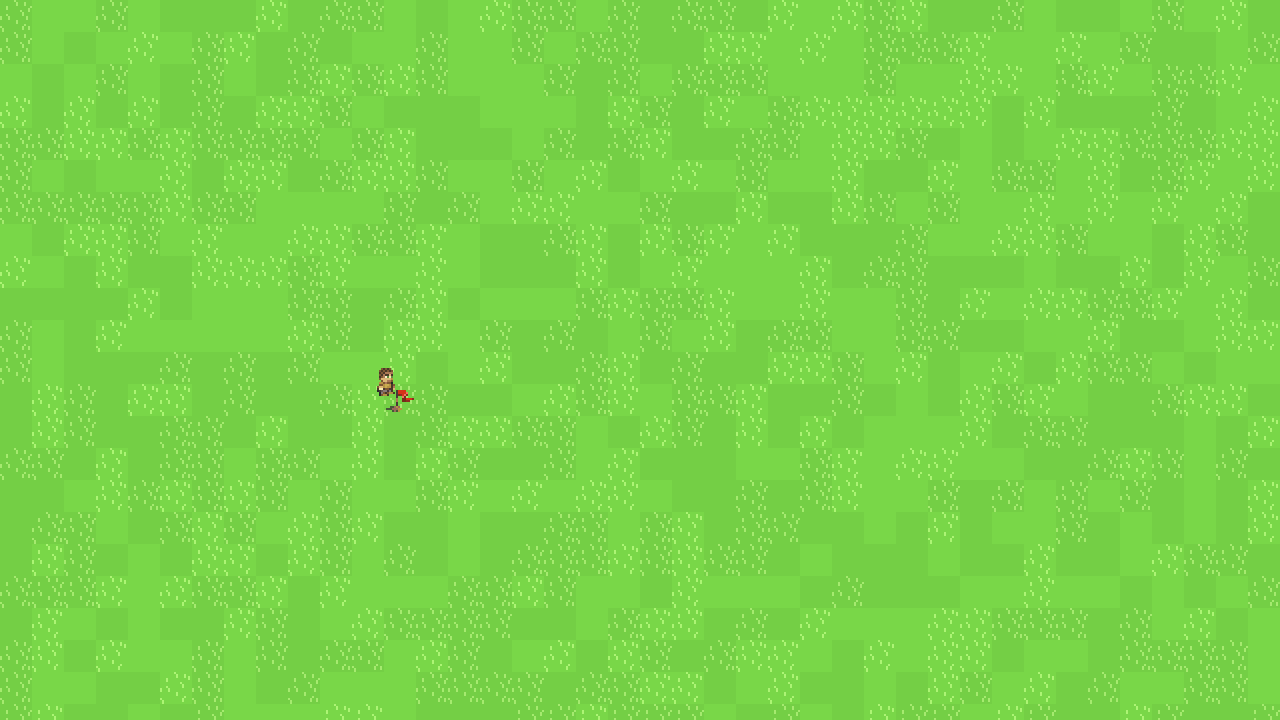
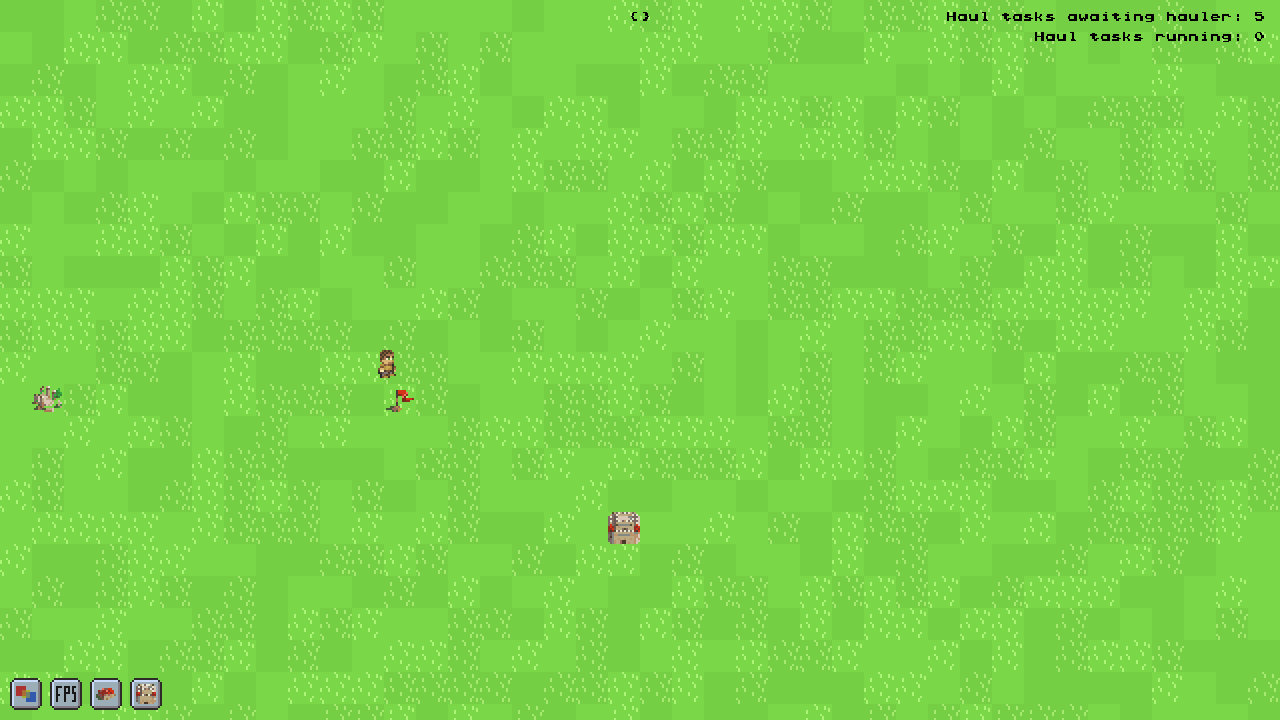
Add: Basic Scene structure Add: MainMenu scene Add: Moved current startup and update to TestMap scene

diff --git a/src/game/startup.rs b/src/game/startup.rs
@@ -13,8 +13,7 @@ use crate::{
         buildings::{house::spawn_finished_house, warehouse::spawn_finished_warehouse},
         constants::*,
         input::{toggle_debug_text, toggle_draw_collisions},
-        tasks::OpenTasks,
-        tilemap::generate_tilemap,
+        scenes::{ActiveScene, Scene},
         villagers::hauler::spawn_hauler,
     },
 };
@@ -22,19 +21,23 @@ use crate::{
 use super::{
     buildings::house::spawn_house_placement,
     constants::TILE_SIZE,
+    scenes::test_map_scene::setup_test_map,
     ui::datatypes::{ActiveTaskCountLabel, GlobalStorageLabel, IdleTaskCountLabel, SelectedHauler},
 };
 
-pub fn game_setup(world: &mut World, _raylib_handle: &mut RaylibHandle, _thread: &RaylibThread) -> Result<(), String> {
-    generate_tilemap(world, 1024, 1024);
-
-    world.spawn((OpenTasks::default(),));
-
-    spawn_buildings(world);
-    spawn_villagers(world);
-    spawn_ui(world)?;
-
-    Ok(())
+pub fn game_setup(
+    world: &mut World,
+    raylib_handle: &mut RaylibHandle,
+    thread: &RaylibThread,
+) -> Result<(), String> {
+    let m_global_storage = world.query_mut::<&ActiveScene>().into_iter().nth(0);
+    Ok(if let Some((_, active_scene)) = m_global_storage {
+        return match active_scene.scene {
+            Scene::TestMap => setup_test_map(world, raylib_handle, thread),
+            Scene::MainMenu => Ok(()),
+            Scene::TestMap2 => Ok(()),
+        };
+    })
 }
 
 pub fn spawn_villagers(world: &mut World) {
@@ -116,7 +119,7 @@ pub fn spawn_ui(world: &mut World) -> Result<(), String> {
         Vector2 { x: 0.0, y: 1.0 },
         TILE_SIZE,
         Some(|world| -> Result<(), String> {
-            let storage: HashMap<GameResource, i32> = HashMap::from([(GameResource::Wood, 40)]); 
+            let storage: HashMap<GameResource, i32> = HashMap::from([(GameResource::Wood, 40)]);
             spawn_finished_warehouse(world, Vector2 { x: 304.0, y: 48.0 }, storage);
             Ok(())
         }),
@@ -135,7 +138,9 @@ pub fn spawn_ui(world: &mut World) -> Result<(), String> {
         1.0,
         Color::BLACK,
     );
-    world.insert(label, (IdleTaskCountLabel,)).map_err(|_| "No such entity")?;
+    world
+        .insert(label, (IdleTaskCountLabel,))
+        .map_err(|_| "No such entity")?;
     let label = spawn_label(
         world,
         Vector2 {
@@ -148,7 +153,9 @@ pub fn spawn_ui(world: &mut World) -> Result<(), String> {
         1.0,
         Color::BLACK,
     );
-    world.insert(label, (ActiveTaskCountLabel,)).map_err(|_| "No such entity")?;
+    world
+        .insert(label, (ActiveTaskCountLabel,))
+        .map_err(|_| "No such entity")?;
     let label = spawn_label(
         world,
         Vector2 {
@@ -161,6 +168,8 @@ pub fn spawn_ui(world: &mut World) -> Result<(), String> {
         1.0,
         Color::BLACK,
     );
-    world.insert(label, (GlobalStorageLabel,)).map_err(|_| "No such entity")?;
+    world
+        .insert(label, (GlobalStorageLabel,))
+        .map_err(|_| "No such entity")?;
     Ok(())
 }

diff --git a/src/main.rs b/src/main.rs
@@ -1,28 +1,23 @@
-pub mod game;
 pub mod engine;
+pub mod game;
 
 extern crate pretty_env_logger;
 #[macro_use]
 extern crate log;
 
-use engine::{
-    ui::datatypes::CameraZoom, 
-    draw::engine_draw,
-    startup::world_setup
-};
+use engine::{draw::engine_draw, startup::world_setup, ui::datatypes::CameraZoom};
 use game::{
-    constants::{SCREEN_WIDTH, SCREEN_HEIGHT, FONT_PATH, TILESET_PATH, UI_ATLAS_PATH, TILE_SIZE}, 
-    input::handle_input, 
-    step::update_game, 
-    draw::draw_game, startup::game_setup, 
+    constants::{FONT_PATH, SCREEN_HEIGHT, SCREEN_WIDTH, TILESET_PATH, TILE_SIZE, UI_ATLAS_PATH},
+    draw::draw_game,
+    input::handle_input,
+    scenes::{ActiveScene, Scene},
+    startup::game_setup,
+    step::update_game,
 };
 use hecs::World;
-use raylib::{
-    prelude::*, 
-    math::Vector2,
-};
+use raylib::{math::Vector2, prelude::*};
 
-fn main() -> Result<(), String>{
+fn main() -> Result<(), String> {
     pretty_env_logger::init();
 
     let (mut raylib_handle, thread) = raylib::init()
@@ -32,23 +27,28 @@ fn main() -> Result<(), String>{
 
     let mut world = World::new();
 
+    // Set staring scene
+    world.spawn((ActiveScene {
+        scene: Scene::MainMenu,
+    },));
+
     let font: Font = world_setup(
-        &mut world, 
-        &mut raylib_handle, 
-        &thread, 
-        &FONT_PATH, 
-        &TILESET_PATH, 
-        &UI_ATLAS_PATH, 
-        Some(game_setup)
-        )?; 
+        &mut world,
+        &mut raylib_handle,
+        &thread,
+        &FONT_PATH,
+        &TILESET_PATH,
+        &UI_ATLAS_PATH,
+        Some(game_setup),
+    )?;
 
     let zoom = 2.0;
 
     let mut camera = Camera2D {
-        offset: Vector2::zero(), 
-        target: Vector2::zero(), 
-        rotation: 0.0, 
-        zoom
+        offset: Vector2::zero(),
+        target: Vector2::zero(),
+        rotation: 0.0,
+        zoom,
     };
     world.spawn((CameraZoom(zoom),));
 
@@ -58,13 +58,13 @@ fn main() -> Result<(), String>{
         handle_input(&mut world, &mut raylib_handle, &mut camera)?;
         update_game(&mut world, &mut raylib_handle, &font)?;
         engine_draw(
-            &mut world, 
-            &mut raylib_handle.begin_drawing(&thread), 
-            &camera, 
+            &mut world,
+            &mut raylib_handle.begin_drawing(&thread),
+            &camera,
             &font,
             TILE_SIZE,
             Some(draw_game),
-            None
+            None,
         );
     }
 

diff --git a/src/game/step.rs b/src/game/step.rs
@@ -1,28 +1,24 @@
 use hecs::World;
-use raylib::{RaylibHandle, text::Font};
+use raylib::{text::Font, RaylibHandle};
 
-use crate::{
-    engine::collision::{detect_body_collisions, detect_trigger_collisions}, 
-    game::{
-        villagers::step::update_villagers, 
-        tasks::update_tasks, 
-        buildings::step::update_buildings
-    }
+use super::scenes::{
+    main_menu_scene::update_main_menu_scene, test_map_scene::update_test_map_scene, ActiveScene,
+    Scene,
 };
 
-use super::ui::step::update_ui;
-
-
-pub fn update_game(world: &mut World, raylib_handle: &mut RaylibHandle, font: &Font) -> Result<(), String> {
+pub fn update_game(
+    world: &mut World,
+    raylib_handle: &mut RaylibHandle,
+    font: &Font,
+) -> Result<(), String> {
     let delta = raylib_handle.get_frame_time();
 
-    update_tasks(world)?;
-    update_villagers(world, delta);
-    update_buildings(world)?;
-    detect_body_collisions(world);
-    detect_trigger_collisions(world);
-
-    update_ui(world, font)?;
-
-    Ok(())
+    let m_global_storage = world.query_mut::<&ActiveScene>().into_iter().nth(0);
+    Ok(if let Some((_, active_scene)) = m_global_storage {
+        return match active_scene.scene {
+            Scene::TestMap => update_test_map_scene(world, font, delta),
+            Scene::MainMenu => update_main_menu_scene(world, font, delta),
+            Scene::TestMap2 => todo!(),
+        };
+    })
 }

diff --git a/src/game/scenes/test_map_scene.rs b/src/game/scenes/test_map_scene.rs
@@ -1,0 +1,42 @@
+use hecs::World;
+use raylib::{text::Font, RaylibHandle, RaylibThread};
+
+use crate::{
+    engine::collision::{detect_body_collisions, detect_trigger_collisions},
+    game::{
+        buildings::step::update_buildings,
+        startup::{spawn_buildings, spawn_ui, spawn_villagers},
+        tasks::{update_tasks, OpenTasks},
+        tilemap::generate_tilemap,
+        ui::step::update_ui,
+        villagers::step::update_villagers,
+    },
+};
+
+pub fn update_test_map_scene(world: &mut World, font: &Font, delta: f32) -> Result<(), String> {
+    update_tasks(world)?;
+    update_villagers(world, delta);
+    update_buildings(world)?;
+    detect_body_collisions(world);
+    detect_trigger_collisions(world);
+
+    update_ui(world, font)?;
+
+    Ok(())
+}
+
+pub fn setup_test_map(
+    world: &mut World,
+    _raylib_handle: &mut RaylibHandle,
+    _thread: &RaylibThread,
+) -> Result<(), String> {
+    generate_tilemap(world, 1024, 1024);
+
+    world.spawn((OpenTasks::default(),));
+
+    spawn_buildings(world);
+    spawn_villagers(world);
+    spawn_ui(world)?;
+
+    Ok(())
+}

diff --git a/src/game/mod.rs b/src/game/mod.rs
@@ -1,12 +1,12 @@
-pub mod villagers;
-pub mod tilemap;
-pub mod tasks;
 pub mod buildings;
-pub mod step;
-pub mod draw;
-pub mod startup;
 pub mod constants;
-pub mod input;
+pub mod draw;
 pub mod enums;
+pub mod input;
+pub mod scenes;
+pub mod startup;
+pub mod step;
+pub mod tasks;
+pub mod tilemap;
 pub mod ui;
-
+pub mod villagers;

diff --git a/src/game/scenes/mod.rs b/src/game/scenes/mod.rs
@@ -1,0 +1,14 @@
+pub mod main_menu_scene;
+pub mod test_map_scene;
+
+#[derive(Debug, Clone)]
+pub struct ActiveScene {
+    pub scene: Scene,
+}
+
+#[derive(Debug, Clone)]
+pub enum Scene {
+    MainMenu,
+    TestMap,
+    TestMap2,
+}

diff --git a/src/game/scenes/main_menu_scene.rs b/src/game/scenes/main_menu_scene.rs
@@ -1,0 +1,6 @@
+use hecs::World;
+use raylib::text::Font;
+
+pub fn update_main_menu_scene(_world: &mut World, _font: &Font, _delta: f32) -> Result<(), String> {
+    Ok(())
+}

diff --git a/src/engine/draw.rs b/src/engine/draw.rs
@@ -1,3 +1,5 @@
+use std::ffi::CString;
+
 use hecs::World;
 // use raylib::ffi::Font;
 use raylib::prelude::*;
